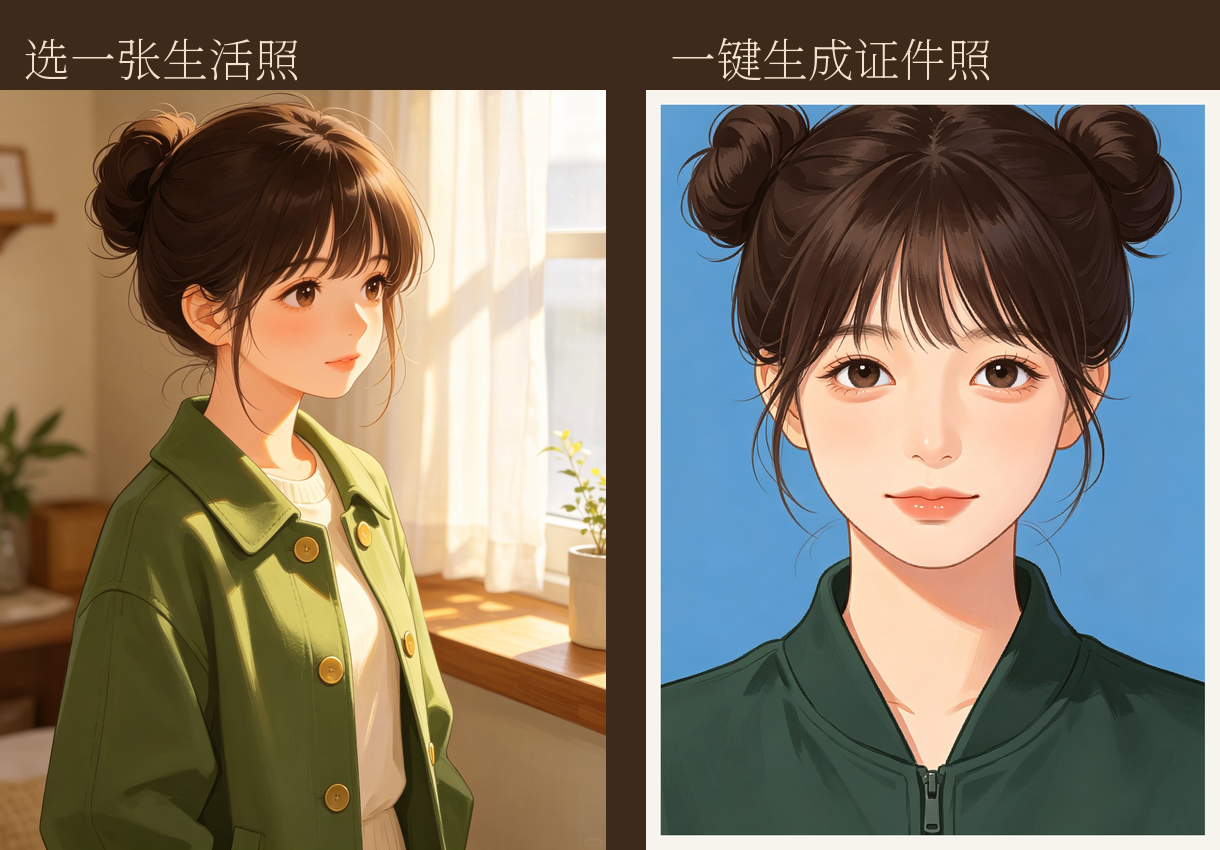
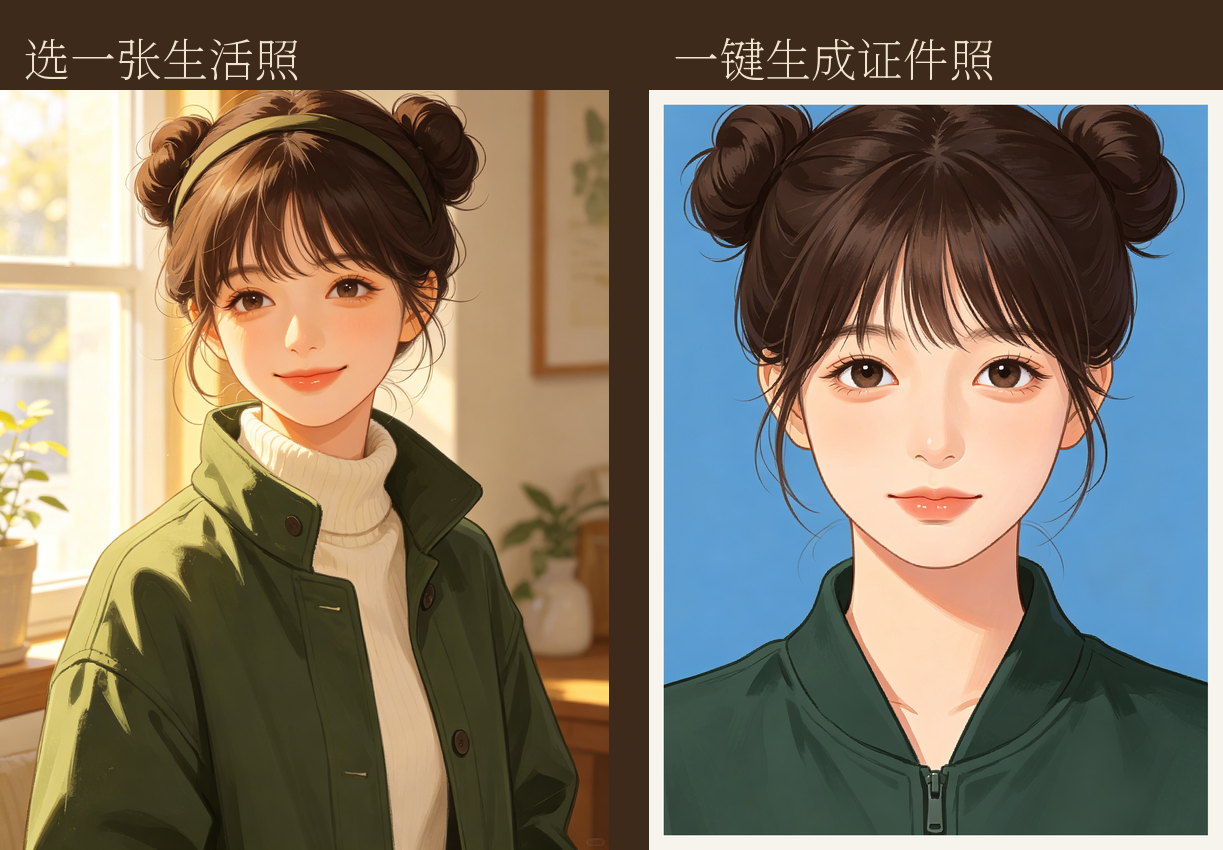
art: 效果示意对 v3——角色一致（补拍双丸子头生活照帧）
- task5_h3（深绿立领+米白高领+双丸子头，与证件照帧同角色）替换前帧
- site demo_pair 同步；水印裁除

diff --git a/scripts_doubao/generate_task5.py b/scripts_doubao/generate_task5.py
@@ -1,0 +1,54 @@
+# -*- coding: utf-8 -*-
+"""任务5：与证件照同角色的生活照。发提示词→等图→下载 task5_h*.jpg"""
+import sys, io, time, os
+sys.stdout.reconfigure(encoding="utf-8", line_buffering=True)
+sys.path.insert(0, os.path.dirname(__file__))
+from db_common import launch, OUT
+from generate import img_srcs, wait_new_images, download, dismiss_dialog
+
+PROMPT = ("日本动漫风格少女，深棕色双丸子头，暖肤色，深绿色立领外套配米白色高领内搭，"
+          "温馨室内窗光场景，正面微微侧身微笑，生活感构图，柔和光影，高质量动漫插画")
+
+pw, ctx = launch(headless=False)
+page = ctx.pages[0] if ctx.pages else ctx.new_page()
+page.goto("https://www.doubao.com/chat/", wait_until="domcontentloaded", timeout=60000)
+page.wait_for_timeout(6000)
+
+dismiss_dialog(page)
+box = page.locator('div[contenteditable="true"]').first
+box.scroll_into_view_if_needed()
+box.click()
+page.wait_for_timeout(800)
+page.keyboard.insert_text(PROMPT)
+page.wait_for_timeout(800)
+
+for attempt in range(3):
+    box.press("Enter")
+    page.wait_for_timeout(3000)
+    body = page.evaluate("document.body.innerText")
+    if "创建项目" in body:
+        page.keyboard.press("Escape")
+        page.wait_for_timeout(1000)
+        box.click(); page.wait_for_timeout(500)
+        continue
+    if PROMPT[:12] in body or "正在生成" in body or "生成中" in body:
+        print("SENT ok on attempt", attempt + 1)
+        break
+else:
+    print("SEND FAILED")
+    page.screenshot(path=OUT + r"\task5_fail.png")
+    ctx.close(); pw.stop(); sys.exit(4)
+
+before = [k for k, u in img_srcs(page)]
+imgs = wait_new_images(page, before, timeout=300)
+print("NEW IMAGES:", len(imgs))
+saved = []
+for i, url in enumerate(imgs):
+    p = f"{OUT}\\task5_h{i+1}.jpg"
+    if download(ctx, url, p):
+        saved.append(p)
+        print("SAVED:", os.path.basename(p))
+page.screenshot(path=OUT + r"\task5_done.png", full_page=True)
+print("TOTAL:", len(saved))
+ctx.close()
+pw.stop()
